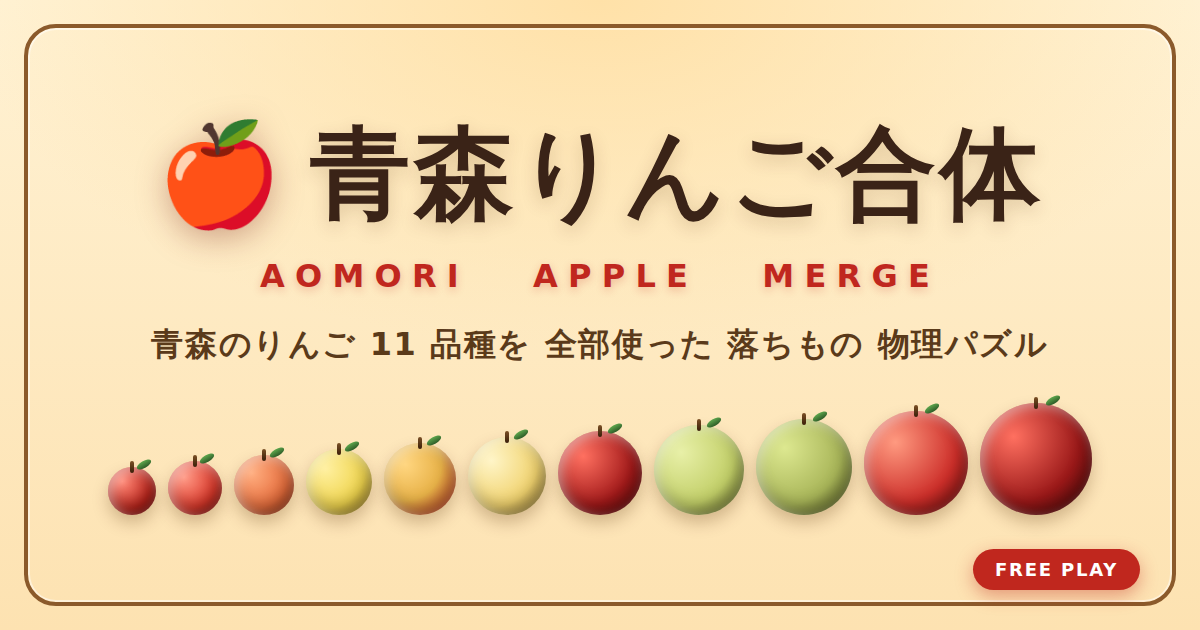
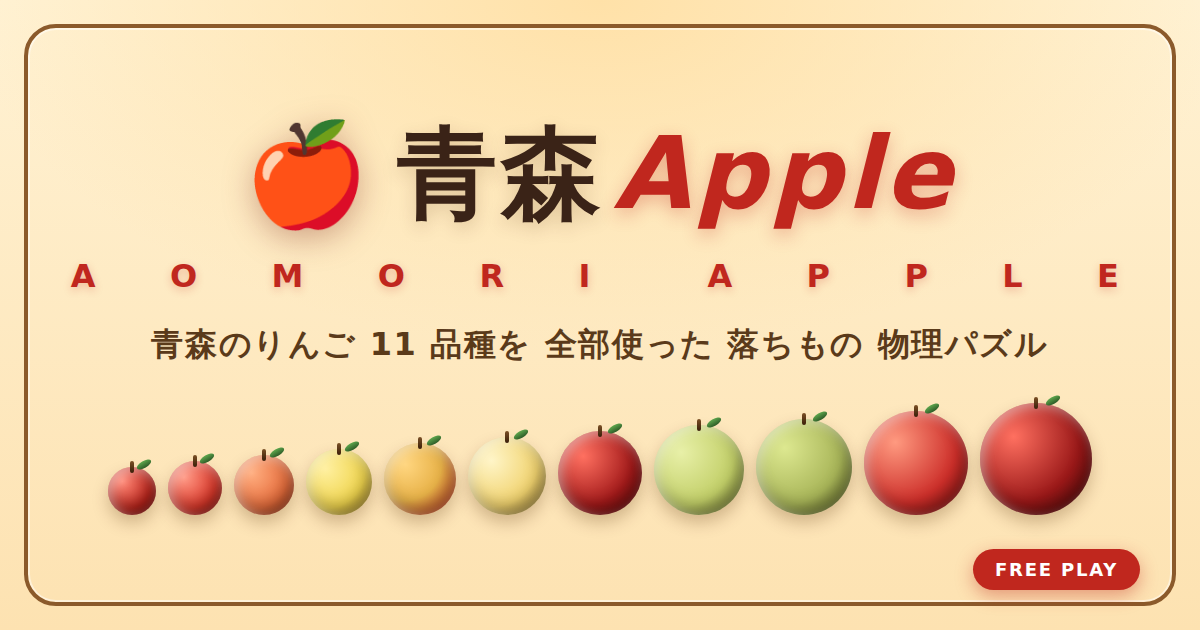
Rename game from 青森りんご合体 to 青森Apple
ゲーム名を 「青森りんご合体」から 「青森Apple」に 変更:

- HTML タイトル / og:title / og:site_name / twitter:title /
  apple-mobile-web-app-title / JSON-LD name と alternateName を 全て 更新
- description / keywords も 「青森Apple」を 含めて 更新
- ヘッダの ブランドタイトル <h1> ( 青森Apple )
- ホーム画面の タイトル <h1> ( 青森Apple )
- 英字サブタイトルを 「AOMORI APPLE MERGE」→「AOMORI APPLE」に
- README.md タイトル更新
- og-image.png を 新タイトル ( Apple を 赤イタリックで アクセント ) で 再生成

diff --git a/index.html b/index.html
@@ -3,9 +3,9 @@
 <head>
   <meta charset="UTF-8" />
   <meta name="viewport" content="width=device-width, initial-scale=1.0, viewport-fit=cover, user-scalable=no" />
-  <title>青森りんご合体パズル | 紅玉から世界一まで 11品種 - Aomori Apple Merge</title>
-  <meta name="description" content="青森のりんご11品種 ( 紅玉 / 千秋 / つがる / きおう / ジョナゴールド / トキ / シナノスイート / 王林 / 陸奥 / ふじ / 世界一 ) を 全部使った 落ちもの 物理パズルゲーム。スイカゲーム風に 同じ品種を 合体させて 世界一を 目指そう。無料、ブラウザで すぐ遊べる、インストール不要、スマホ対応。" />
-  <meta name="keywords" content="青森りんご, りんごゲーム, スイカゲーム, 落ちものパズル, 合体ゲーム, ふじ, 世界一, 王林, 紅玉, ブラウザゲーム, 無料ゲーム, 物理パズル, ストレス発散, 青森" />
+  <title>青森Apple | 紅玉から世界一まで 11品種 - Aomori Apple</title>
+  <meta name="description" content="青森のりんご11品種 ( 紅玉 / 千秋 / つがる / きおう / ジョナゴールド / トキ / シナノスイート / 王林 / 陸奥 / ふじ / 世界一 ) を 全部使った 落ちもの 物理パズルゲーム 「青森Apple」。同じ品種を 合体させて 世界一を 目指そう。無料、ブラウザで すぐ遊べる、インストール不要、スマホ対応。" />
+  <meta name="keywords" content="青森Apple, 青森りんご, りんごゲーム, スイカゲーム, 落ちものパズル, 合体ゲーム, ふじ, 世界一, 王林, 紅玉, ブラウザゲーム, 無料ゲーム, 物理パズル, ストレス発散, 青森" />
   <meta name="author" content="dahande" />
   <meta name="robots" content="index, follow, max-image-preview:large" />
   <meta name="googlebot" content="index, follow" />
@@ -13,29 +13,29 @@
 
   <meta name="apple-mobile-web-app-capable" content="yes" />
   <meta name="apple-mobile-web-app-status-bar-style" content="black-translucent" />
-  <meta name="apple-mobile-web-app-title" content="青森りんご合体" />
+  <meta name="apple-mobile-web-app-title" content="青森Apple" />
   <meta name="format-detection" content="telephone=no" />
 
   <!-- Open Graph -->
   <meta property="og:type" content="website" />
-  <meta property="og:site_name" content="青森りんご合体パズル" />
-  <meta property="og:title" content="青森りんご合体パズル - 11品種を全部合体させて世界一を目指す" />
-  <meta property="og:description" content="青森のりんご11品種を 全部使った 落ちもの物理パズル。同じ品種を ぶつけて 進化させ、最終的に 世界一を 作ろう。ブラウザで 無料プレイ。" />
+  <meta property="og:site_name" content="青森Apple" />
+  <meta property="og:title" content="青森Apple - 11品種を全部合体させて世界一を目指す物理パズル" />
+  <meta property="og:description" content="青森のりんご11品種を 全部使った 落ちもの物理パズル「青森Apple」。同じ品種を ぶつけて 進化させ、最終的に 世界一を 作ろう。ブラウザで 無料プレイ。" />
   <meta property="og:url" content="https://dahande.github.io/OriginalGame/" />
   <meta property="og:image" content="https://dahande.github.io/OriginalGame/og-image.png" />
   <meta property="og:image:secure_url" content="https://dahande.github.io/OriginalGame/og-image.png" />
   <meta property="og:image:type" content="image/png" />
   <meta property="og:image:width" content="1200" />
   <meta property="og:image:height" content="630" />
-  <meta property="og:image:alt" content="青森りんご合体パズル - 紅玉から世界一まで11品種が並んだロゴ" />
+  <meta property="og:image:alt" content="青森Apple - 紅玉から世界一まで11品種が並んだロゴ" />
   <meta property="og:locale" content="ja_JP" />
 
   <!-- Twitter Card -->
   <meta name="twitter:card" content="summary_large_image" />
-  <meta name="twitter:title" content="青森りんご合体パズル - 11品種を合体させて世界一を目指す" />
-  <meta name="twitter:description" content="青森のりんご11品種を 全部使った 落ちもの物理パズル。ブラウザで 無料プレイ。" />
+  <meta name="twitter:title" content="青森Apple - 11品種を合体させて世界一を目指す物理パズル" />
+  <meta name="twitter:description" content="青森のりんご11品種を 全部使った 落ちもの物理パズル「青森Apple」。ブラウザで 無料プレイ。" />
   <meta name="twitter:image" content="https://dahande.github.io/OriginalGame/og-image.png" />
-  <meta name="twitter:image:alt" content="青森りんご合体パズル - 紅玉から世界一まで11品種が並んだロゴ" />
+  <meta name="twitter:image:alt" content="青森Apple - 紅玉から世界一まで11品種が並んだロゴ" />
 
   <!-- Discord は Open Graph を 主に 使うため 上記で 対応 -->
   <meta name="theme-color" content="#c0271e" />
@@ -48,8 +48,8 @@
   {
     "@context": "https://schema.org",
     "@type": "VideoGame",
-    "name": "青森りんご合体パズル",
-    "alternateName": ["Aomori Apple Merge", "りんご合体", "Aomori Ringo Merge"],
+    "name": "青森Apple",
+    "alternateName": ["Aomori Apple", "青森アップル", "青森りんご合体パズル"],
     "description": "青森のりんご11品種 ( 紅玉, 千秋, つがる, きおう, ジョナゴールド, トキ, シナノスイート, 王林, 陸奥, ふじ, 世界一 ) を 全部使った 落ちもの 物理パズル。同じ品種を ぶつけて 合体させ、最終的に 世界一を 目指す。",
     "url": "https://dahande.github.io/OriginalGame/",
     "image": "https://dahande.github.io/OriginalGame/og-image.png",
@@ -71,7 +71,7 @@
       "name": "dahande",
       "url": "https://github.com/dahande"
     },
-    "keywords": "青森, りんご, スイカゲーム, 物理パズル, 合体, 落ちもの, ふじ, 世界一, 王林, 紅玉"
+    "keywords": "青森Apple, 青森, りんご, スイカゲーム, 物理パズル, 合体, 落ちもの, ふじ, 世界一, 王林, 紅玉"
   }
   </script>
 </head>
@@ -81,8 +81,8 @@
       <div class="brand">
         <span class="brand-icon" aria-hidden="true">🍎</span>
         <hgroup class="brand-text">
-          <h1 class="brand-jp">青森りんご合体</h1>
-          <p class="brand-en">AOMORI APPLE MERGE</p>
+          <h1 class="brand-jp">青森Apple</h1>
+          <p class="brand-en">AOMORI APPLE</p>
         </hgroup>
       </div>
 
@@ -147,8 +147,8 @@
       <div class="home-title-row">
         <span class="home-emoji" aria-hidden="true">🍎</span>
         <hgroup class="home-headings">
-          <h1 class="home-title">青森りんご合体</h1>
-          <p class="home-sub">AOMORI APPLE MERGE</p>
+          <h1 class="home-title">青森Apple</h1>
+          <p class="home-sub">AOMORI APPLE</p>
         </hgroup>
       </div>
       <p class="home-desc">同じ品種を 合体させて<br/><strong>世界一</strong> を 目指そう</p>

diff --git a/README.md b/README.md
@@ -1,4 +1,4 @@
-# 青森りんご合体 🍎 (Aomori Apple Merge)
+# 青森Apple 🍎 (Aomori Apple)
 
 青森の代表 11 品種を 全部使った 落ちもの 物理パズル。
 スイカゲーム風に、同じ品種の りんごを ぶつけて 合体させ、最終的に **世界一** を 目指す。